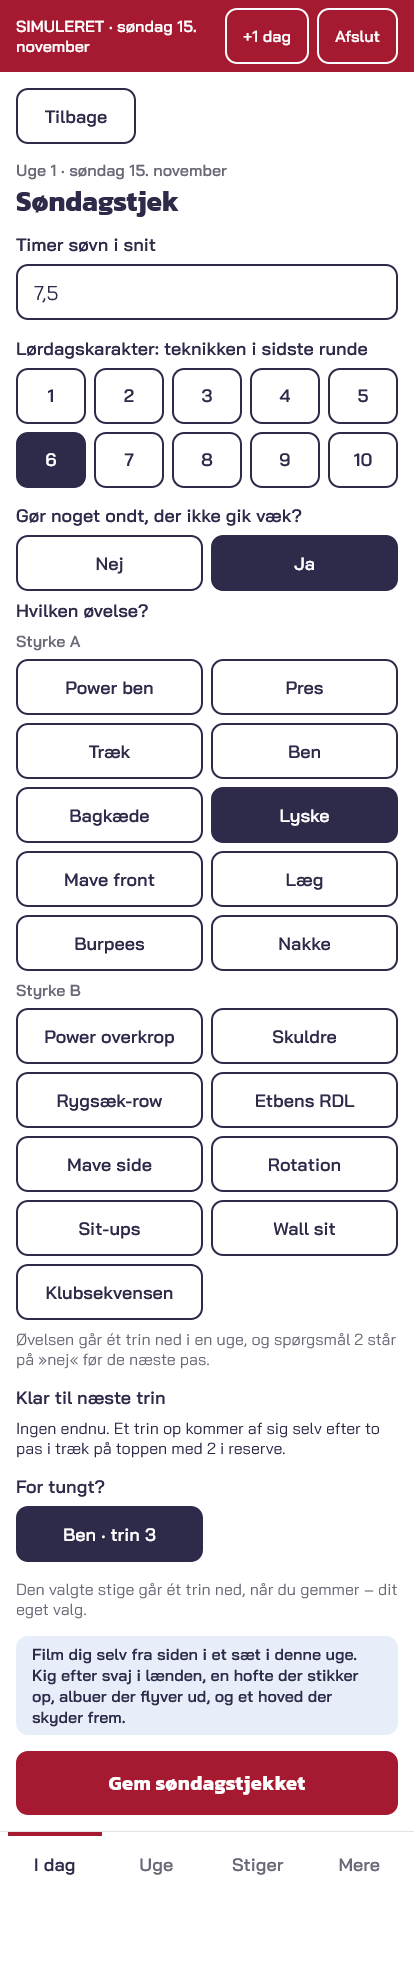
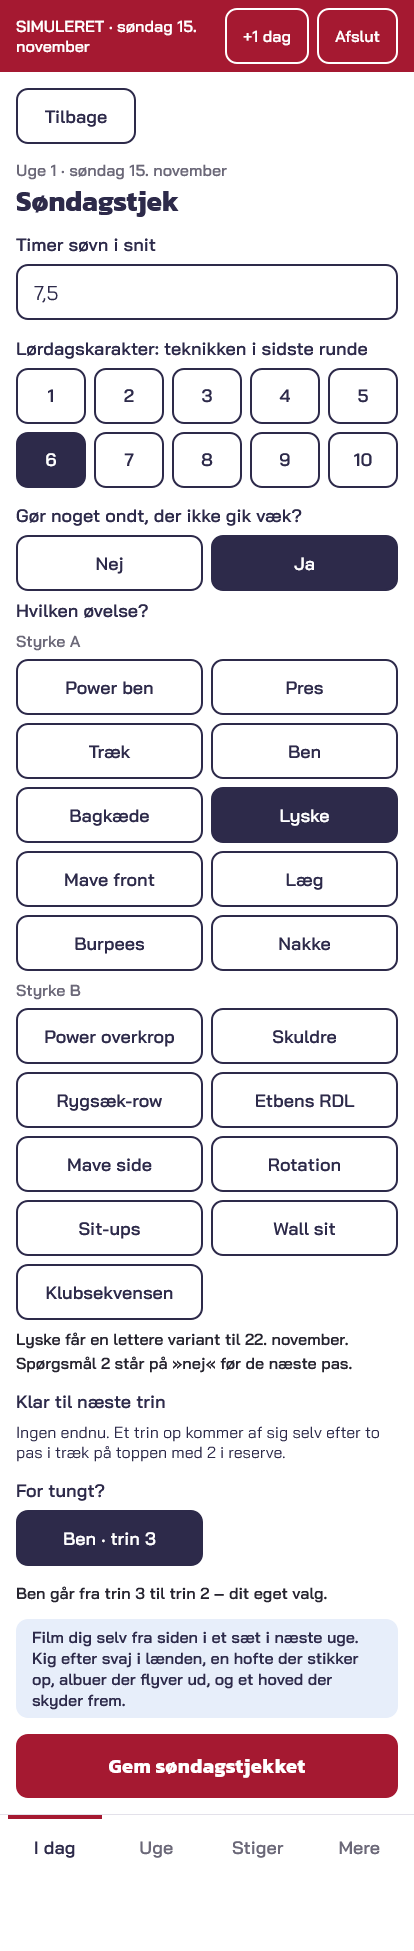
test: the review of P5a – the time machine's »Afslut«, »Ret søndagstjekket«, Saturday's grade on the real clock and the back gesture (D65)
Claude-Session: https://claude.ai/code/session_01VvEZwGyT4vba1A14M2oTxQ

diff --git a/e2e/life.spec.ts b/e2e/life.spec.ts
@@ -185,7 +185,7 @@ test('klubloggen lørdag 14/11 med lørdagskarakteren, som søndagstjekket viser
   await card.getByRole('button', { name: 'Tag søndagstjekket' }).click();
   const check = page.getByTestId('sunday-check');
   await expect(check).toBeVisible();
-  await expect(check.getByTestId('saturday-grade')).toHaveText(/7\s*· fra klubloggen/);
+  await expect(check.getByTestId('saturday-grade')).toHaveText(/7\s*· allerede givet/);
   await expect(check.getByRole('group', { name: /Lørdagskarakter/ })).toHaveCount(0);
   await check.getByRole('button', { name: 'Tilbage', exact: true }).click();
   await expect(card).toContainText('Søndagstjek');
@@ -268,9 +268,15 @@ test('søndagstjekket søndag 15/11: søvn, lørdagskarakter, smerte og for tung
   const heavy = check.getByRole('group', { name: 'For tungt?' });
   await expect(heavy.getByRole('button')).toHaveCount(1);
   await heavy.getByRole('button', { name: 'Ben · trin 3', exact: true }).click();
-  await expect(check).toContainText('går ét trin ned, når du gemmer');
-  // Week 1 is an even week from the start: »Film dig selv«.
-  await expect(check).toContainText('Film dig selv');
+  // What saving does, read from the engine's own events (D65).
+  await expect(check.getByTestId('pain-effects')).toContainText(
+    'Lyske får en lettere variant til 22. november.',
+  );
+  await expect(check.getByTestId('heavy-effects')).toHaveText(
+    'Ben går fra trin 3 til trin 2 – dit eget valg.',
+  );
+  // Week 1 is an even week from the start: »Film dig selv« in the week to come.
+  await expect(check).toContainText('Film dig selv fra siden i et sæt i næste uge.');
   await expectClean(page, 'Søndagstjekket');
   await page.screenshot({
     path: 'screenshots/soendagstjek.png',
@@ -491,4 +497,218 @@ test('et dobbelttryk på »Gem søndagstjekket« gemmer ét søndagstjek @date',
   await slow(page, false);
   await page.waitForTimeout(600);
   expect(await storedEventCount(page)).toBe(before + 1);
+});
+
+// ------------------------------------------------------------------------------------------------
+// After the review of P5a (docs/reviews/nat3-p5a-livet.md, DECISIONS.md D65).
+
+/** The real log's club logs (IndexedDB 'comeback', store 'events'). */
+async function clubLogs(page: Page): Promise<Array<Record<string, unknown>>> {
+  return page.evaluate(
+    () =>
+      new Promise<Array<Record<string, unknown>>>((resolve, reject) => {
+        const open = indexedDB.open('comeback');
+        open.onerror = () => reject(new Error(String(open.error)));
+        open.onsuccess = () => {
+          const db = open.result;
+          const all = db.transaction('events', 'readonly').objectStore('events').getAll();
+          all.onsuccess = () => {
+            const events = all.result as Array<Record<string, unknown>>;
+            resolve(events.filter((e) => e.type === 'club_logged'));
+            db.close();
+          };
+          all.onerror = () => reject(new Error(String(all.error)));
+        };
+      }),
+  );
+}
+
+test('H1: søndagstjekket og klubloggen åbnet i tidsmaskinen lukker ved »Afslut« og skriver aldrig i den rigtige log @date', async ({
+  page,
+}) => {
+  // The real day is Wednesday 11/11 at 20:45, after the club time.
+  await openAt(page, '2026-11-11T19:45:00Z');
+  await onboardHarder(page, { Ben: 2 });
+  const stored = await storedEventCount(page);
+
+  // The Sunday check on a simulated Sunday, with Ben too heavy, left open at »Afslut«.
+  await startSimulation(page, '2026-11-15');
+  await page.getByTestId('main-card').getByRole('button', { name: 'Tag søndagstjekket' }).click();
+  const check = page.getByTestId('sunday-check');
+  const heavy = check.getByRole('group', { name: 'For tungt?' });
+  await heavy.getByRole('button', { name: 'Ben · trin 3', exact: true }).click();
+  await page.getByTestId('sim-exit').click();
+  await expect(page.locator('.banner.sim')).toHaveCount(0);
+  await expect(check).toHaveCount(0);
+  await expect(page.getByTestId('today')).toBeVisible();
+  expect(await storedEventCount(page)).toBe(stored);
+
+  // The club log on the simulated Wednesday, left open at »Afslut«.
+  await startSimulation(page, '2026-11-11');
+  await page.getByTestId('main-card').getByRole('button', { name: 'Hvordan var det?' }).click();
+  const form = page.getByTestId('club-log');
+  await expect(form).toBeVisible();
+  await page.getByTestId('sim-exit').click();
+  await expect(form).toHaveCount(0);
+  expect(await storedEventCount(page)).toBe(stored);
+
+  // The real Wednesday's club log is still asked for, and is logged once.
+  const card = page.getByTestId('main-card');
+  await card.getByRole('button', { name: 'Hvordan var det?' }).click();
+  await page.getByTestId('club-log').getByRole('button', { name: 'Hård', exact: true }).click();
+  await page.getByTestId('club-save').click();
+  await expect(page.locator('.main-card.done')).toContainText('✓ Logget: Hård');
+  await expect.poll(() => storedEventCount(page)).toBe(stored + 1);
+  // And the real Ben is still on trin 3.
+  await page.getByRole('button', { name: 'Stiger', exact: true }).click();
+  await expect(page.locator('.ladder-row', { hasText: 'Ben · trin 3' })).toBeVisible();
+});
+
+test('M1 og M2: »Ret søndagstjekket« fra smerte til for tungt holder Ben på trin 2, og et fjernet svar står stadig på kortet @date', async ({
+  page,
+}) => {
+  await openAt(page, MONDAY_EVENING);
+  await onboardHarder(page, { Ben: 2 });
+  const stored = await storedEventCount(page);
+  await startSimulation(page, '2026-11-15');
+
+  const card = page.getByTestId('main-card');
+  await card.getByRole('button', { name: 'Tag søndagstjekket' }).click();
+  const check = page.getByTestId('sunday-check');
+  const pain = check.getByRole('group', { name: 'Gør noget ondt, der ikke gik væk?' });
+  await pain.getByRole('button', { name: 'Ja', exact: true }).click();
+  await check.getByRole('button', { name: 'Ben', exact: true }).click();
+  await check.getByRole('button', { name: 'Lyske', exact: true }).click();
+  await expect(check.getByTestId('pain-effects')).toContainText(
+    'Ben går fra trin 3 til trin 2 til 22. november.',
+  );
+  await check.getByTestId('sunday-save').click();
+  const done = page.locator('.main-card.done');
+  await expect(done).toContainText('Ondt: Ben – midlertidigt trin til 22. november (smerte)');
+
+  // Corrected: no pain, but Ben too heavy. Ben stays on trin 2, and trin 3 does not come back.
+  await done.getByRole('button', { name: 'Ret søndagstjekket' }).click();
+  await expect(check.getByTestId('standing')).toContainText(
+    'Fra søndagstjekket: Ben – midlertidigt trin til 22. november (smerte) · Lyske – lettere variant til 22. november (smerte).',
+  );
+  await pain.getByRole('button', { name: 'Nej', exact: true }).click();
+  const heavy = check.getByRole('group', { name: 'For tungt?' });
+  await heavy.getByRole('button', { name: 'Ben · trin 3', exact: true }).click();
+  await expect(check.getByTestId('heavy-effects')).toHaveText(
+    'Ben bliver på trin 2 og kommer ikke tilbage til trin 3 – dit eget valg.',
+  );
+  await expectClean(page, 'Søndagstjekket under »Ret«');
+  await page.screenshot({
+    path: 'screenshots/soendagstjek-ret.png',
+    scale: 'css',
+    animations: 'disabled',
+    fullPage: true,
+    style: IN_FLOW,
+  });
+  await check.getByTestId('sunday-save').click();
+  await expect(done).toContainText('For tungt: Ben – nu trin 2');
+  // Lyske is no longer named, but its lighter variant stands, and the card says so.
+  await expect(done).toContainText('Ondt: Lyske – lettere variant til 22. november (smerte)');
+  await expect(done).toContainText(
+    'Fjernet i rettelsen, men står stadig: Lyske. Trinnet kan vælges under Stiger.',
+  );
+  await expectClean(page, 'I dag efter »Ret søndagstjekket«');
+  await page.screenshot({
+    path: 'screenshots/i-dag-soendagstjek-ret.png',
+    scale: 'css',
+    animations: 'disabled',
+  });
+  await page.getByRole('button', { name: 'Stiger', exact: true }).click();
+  const ben = page.locator('.ladder-row', { hasText: 'Ben · trin 2' });
+  await expect(ben).toBeVisible();
+  await expect(ben).not.toContainText('Midlertidigt');
+  expect(await storedEventCount(page)).toBe(stored);
+});
+
+test('M3 med det rigtige ur søndag 15/11: lørdagskarakteren i tjekket lukker ikke lørdagens klublog @date', async ({
+  page,
+}) => {
+  // The phase-in on Friday 13/11 at 08:00, then the real clock on to Sunday at 10:00.
+  await openAt(page, '2026-11-13T07:00:00Z');
+  await onboard(page);
+  await page.clock.fastForward(50 * 3_600_000);
+  await expect(page.locator('.today-head .date')).toHaveText('Søndag 15. november');
+  const yesterday = page.getByTestId('club-card');
+  await expect(yesterday).toContainText('Muay Thai i går');
+
+  // The check first, with Saturday's grade.
+  await page.getByTestId('main-card').getByRole('button', { name: 'Tag søndagstjekket' }).click();
+  const check = page.getByTestId('sunday-check');
+  const grade = check.getByRole('group', { name: /Lørdagskarakter/ });
+  await grade.getByRole('button', { name: '4', exact: true }).click();
+  await check.getByTestId('sunday-save').click();
+  await expect(page.locator('.main-card.done')).toContainText('Lørdagskarakter: 4');
+
+  // Saturday's club card stays: only the grade is given, and the rest is logged without it.
+  await expect(yesterday).toContainText('Karakteren 4 er givet. Resten kan du logge her.');
+  await yesterday.getByRole('button', { name: 'Hvordan var det?' }).click();
+  const form = page.getByTestId('club-log');
+  await expect(form.getByTestId('club-grade')).toHaveText(/4\s*· allerede givet/);
+  await expect(form.getByRole('group', { name: 'Teknikken i sidste runde' })).toHaveCount(0);
+  for (const name of ['Middel', 'Flad']) {
+    await form.getByRole('button', { name, exact: true }).click();
+  }
+  await form.getByTestId('club-save').click();
+  await expect(yesterday).toHaveCount(0);
+  await expect(
+    page.getByRole('status').filter({ hasText: 'Klubtræningen i går er logget' }),
+  ).toBeVisible();
+  const saturday = (await clubLogs(page)).filter((e) => e.date === '2026-11-14');
+  expect(saturday).toEqual([
+    expect.objectContaining({ attended: true, technique: 4 }),
+    expect.objectContaining({ attended: true, hardness: 'medium', freshness: 'flat' }),
+  ]);
+  // The flat rule reads one grade for Saturday.
+  expect(saturday.filter((e) => e.technique !== undefined)).toHaveLength(1);
+});
+
+test('L2: tilbage-gestussen lukker søndagstjekket, klubloggen og »Flyt eller spring over«, ikke appen @date', async ({
+  page,
+}) => {
+  await openAt(page, MONDAY_EVENING);
+  await onboard(page);
+  const entries = await page.evaluate(() => history.length);
+  await startSimulation(page, '2026-11-15');
+  const card = page.getByTestId('main-card');
+
+  await card.getByRole('button', { name: 'Tag søndagstjekket' }).click();
+  await expect(page.getByTestId('sunday-check')).toBeVisible();
+  await page.goBack();
+  await expect(page.getByTestId('sunday-check')).toHaveCount(0);
+  await expect(page.getByTestId('today')).toBeVisible();
+  await expect(page.locator('.banner.sim')).toBeVisible();
+
+  // »Tilbage« goes back over the screen's step: the history does not grow.
+  await card.getByRole('button', { name: 'Tag søndagstjekket' }).click();
+  const back = page.getByTestId('sunday-check').getByRole('button', { name: 'Tilbage' });
+  await back.click();
+  await expect(page.getByTestId('sunday-check')).toHaveCount(0);
+
+  // The club log on Monday evening.
+  await nextDay(page, 'mandag 16. november');
+  await card.getByRole('button', { name: 'Hvordan var det?' }).click();
+  await expect(page.getByTestId('club-log')).toBeVisible();
+  await page.goBack();
+  await expect(page.getByTestId('club-log')).toHaveCount(0);
+  await expect(card).toContainText('Muay Thai');
+
+  // »Flyt eller spring over« in Uge on Wednesday, for Tuesday's forgotten Styrke A.
+  await nextDay(page, 'tirsdag 17. november');
+  await nextDay(page, 'onsdag 18. november');
+  await page.getByRole('button', { name: 'Uge', exact: true }).click();
+  const tuesday = page.locator('.week-day', {
+    has: page.locator('.week-day-weekday', { hasText: 'Tirsdag' }),
+  });
+  await tuesday.getByTestId('week-session').click();
+  await expect(page.getByTestId('move')).toBeVisible();
+  await page.goBack();
+  await expect(page.getByTestId('move')).toHaveCount(0);
+  await expect(page.getByTestId('week')).toBeVisible();
+  await expect(page.locator('.banner.sim')).toBeVisible();
+  expect(await page.evaluate(() => history.length)).toBeLessThanOrEqual(entries + 1);
 });

diff --git a/src/ui/__tests__/life.test.ts b/src/ui/__tests__/life.test.ts
@@ -1,18 +1,25 @@
 import { describe, expect, it } from 'vitest';
-import { PROGRAM } from '../../engine/index.ts';
+import { PROGRAM, submitSundayCheck } from '../../engine/index.ts';
 import { dayOf, Log, mondays } from '../../engine/__tests__/helpers/log.ts';
 import {
   clubAsks,
   clubEnd,
   clubLogOn,
   clubSummary,
+  gradeOnly,
   minutesIn,
+  standingChanges,
+  standingText,
   sundayDue,
+  trackDistance,
   type ClubAsk,
 } from '../life.ts';
 import {
+  checkEffects,
   filmWeek,
   heavyChoices,
+  heavyLabel,
+  heavyStep,
   lightPains,
   painChoices,
   parseSleep,
@@ -235,5 +242,72 @@ describe('the Sunday check’s fields', () => {
     expect(filmWeek(state, SUN)).toBe(true);
     expect(filmWeek(state, '2026-11-22')).toBe(false);
     expect(filmWeek(state, '2026-11-29')).toBe(true);
+  });
+});
+
+// The review of P5a (docs/reviews/nat3-p5a-livet.md, DECISIONS.md D65).
+describe('after the review of P5a', () => {
+  it('M3: the grade from the Sunday check alone does not answer yesterday’s club card', () => {
+    const log = onboarded();
+    log.push({ type: 'club_logged', attended: true, technique: 4 }, SAT);
+    const [sunday] = clubAsks(PROGRAM, log.state(SUN), SUN, 9 * 60);
+    expect(sunday).toMatchObject({ date: SAT, yesterday: true, answered: false });
+    expect(sunday?.log && gradeOnly(sunday.log)).toBe(true);
+    // The rest of the club log answers it; a log on the club day itself always does.
+    log.push({ type: 'club_logged', attended: true, hardness: 'medium' }, SAT);
+    expect(clubAsks(PROGRAM, log.state(SUN), SUN, 9 * 60)[0]?.answered).toBe(true);
+    const sameDay = onboarded();
+    sameDay.push({ type: 'club_logged', attended: true, technique: 7 }, SAT);
+    expect(clubAsks(PROGRAM, sameDay.state(SAT), SAT, 20 * 60)[0]?.answered).toBe(true);
+  });
+
+  it('M1: »For tungt?« in a pain period is about the step before the pain, which the period would bring back', () => {
+    const log = new Log().onboard({
+      completedWeeks: mondays(1),
+      steps: { legs: { stepId: 'legs.3', target: 8 } },
+    });
+    log.session({
+      date: dayOf(1, 2),
+      sets: { legs: { values: [8, 8, 8], rir: 2, pain: 'sharp' } },
+    });
+    const state = log.state(dayOf(1, 7));
+    expect(state.tracks.legs?.stepId).toBe('legs.2');
+    expect(heavyStep(state, 'legs')).toBe('legs.3');
+    expect(heavyLabel(PROGRAM, state, 'legs')).toBe('Ben · trin 3');
+    expect(heavyChoices(PROGRAM, state, [])).toContain('legs');
+    const input = { date: dayOf(1, 7), painTracks: [], tooHeavy: ['legs'] };
+    expect(checkEffects(PROGRAM, log.events, state, input).get('legs')).toBe(
+      'Ben bliver på trin 2 og kommer ikke tilbage til trin 3 – dit eget valg.',
+    );
+  });
+
+  it('M2: the screen says what saving does, and nothing a correction would not do', () => {
+    const log = new Log().onboard({
+      completedWeeks: mondays(1),
+      steps: { legs: { stepId: 'legs.3', target: 8 }, groin: 'groin.1', press: 'press.2' },
+    });
+    const sunday = dayOf(1, 7);
+    const first = { date: sunday, painTracks: ['groin', 'press'], tooHeavy: ['legs'] };
+    let effects = checkEffects(PROGRAM, log.events, log.state(sunday), first);
+    expect(effects.get('groin')).toBe('Lyske får en lettere variant til 29. november.');
+    expect(effects.get('press')).toBe('Pres går fra trin 2 til trin 1 til 29. november.');
+    expect(effects.get('legs')).toBe('Ben går fra trin 3 til trin 2 – dit eget valg.');
+    log.add(submitSundayCheck(log.ctx, log.events, first));
+    // The same answers again: nothing more happens, and the screen says so.
+    effects = checkEffects(PROGRAM, log.events, log.state(sunday), first);
+    expect(effects.get('groin')).toBe('Lyske står allerede nede fra søndagstjekket.');
+    expect(effects.get('legs')).toBe('Ben står allerede nede fra søndagstjekket.');
+    // A correction without them: the changes still stand, also on the card.
+    log.add(submitSundayCheck(log.ctx, log.events, { date: sunday, painTracks: [], tooHeavy: [] }));
+    const state = log.state(sunday);
+    const due = sundayDue(state, sunday);
+    if (!due) throw new Error('no check');
+    const standing = standingChanges(PROGRAM, state, due, (id) => trackDistance(state, id));
+    expect(standing.map((c) => standingText(PROGRAM, c))).toEqual([
+      'Lyske – lettere variant til 29. november (smerte)',
+      'Pres – midlertidigt trin til 29. november (smerte)',
+      'Ben – nu trin 2',
+    ]);
+    expect(standing.map((c) => c.kind)).toEqual(['pain', 'pain', 'heavy']);
   });
 });
